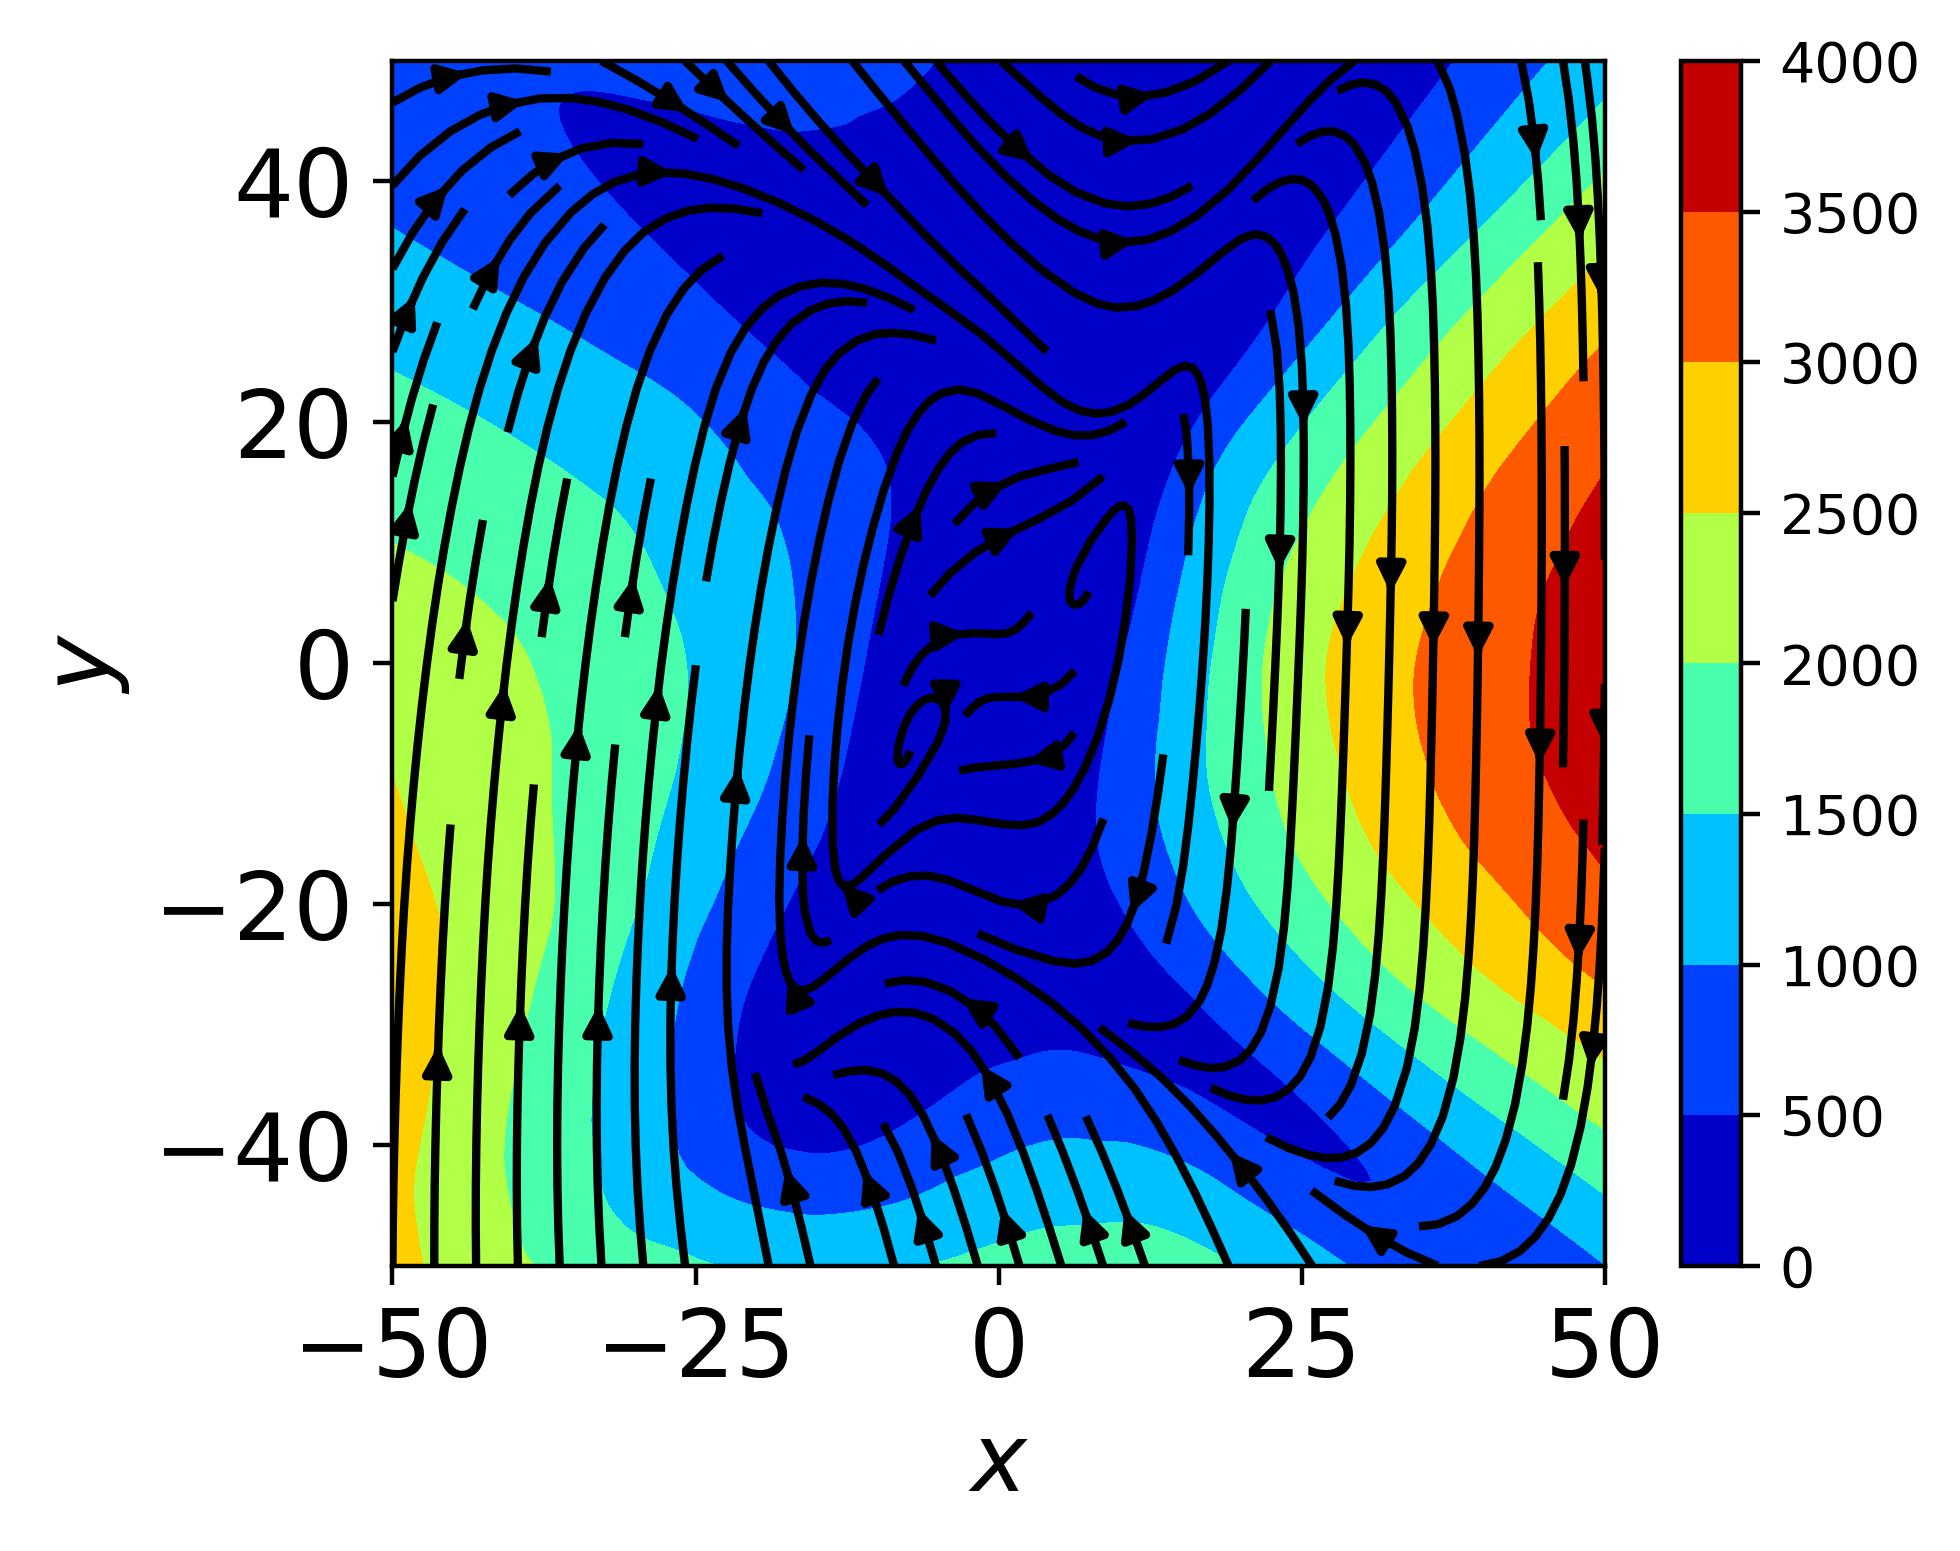
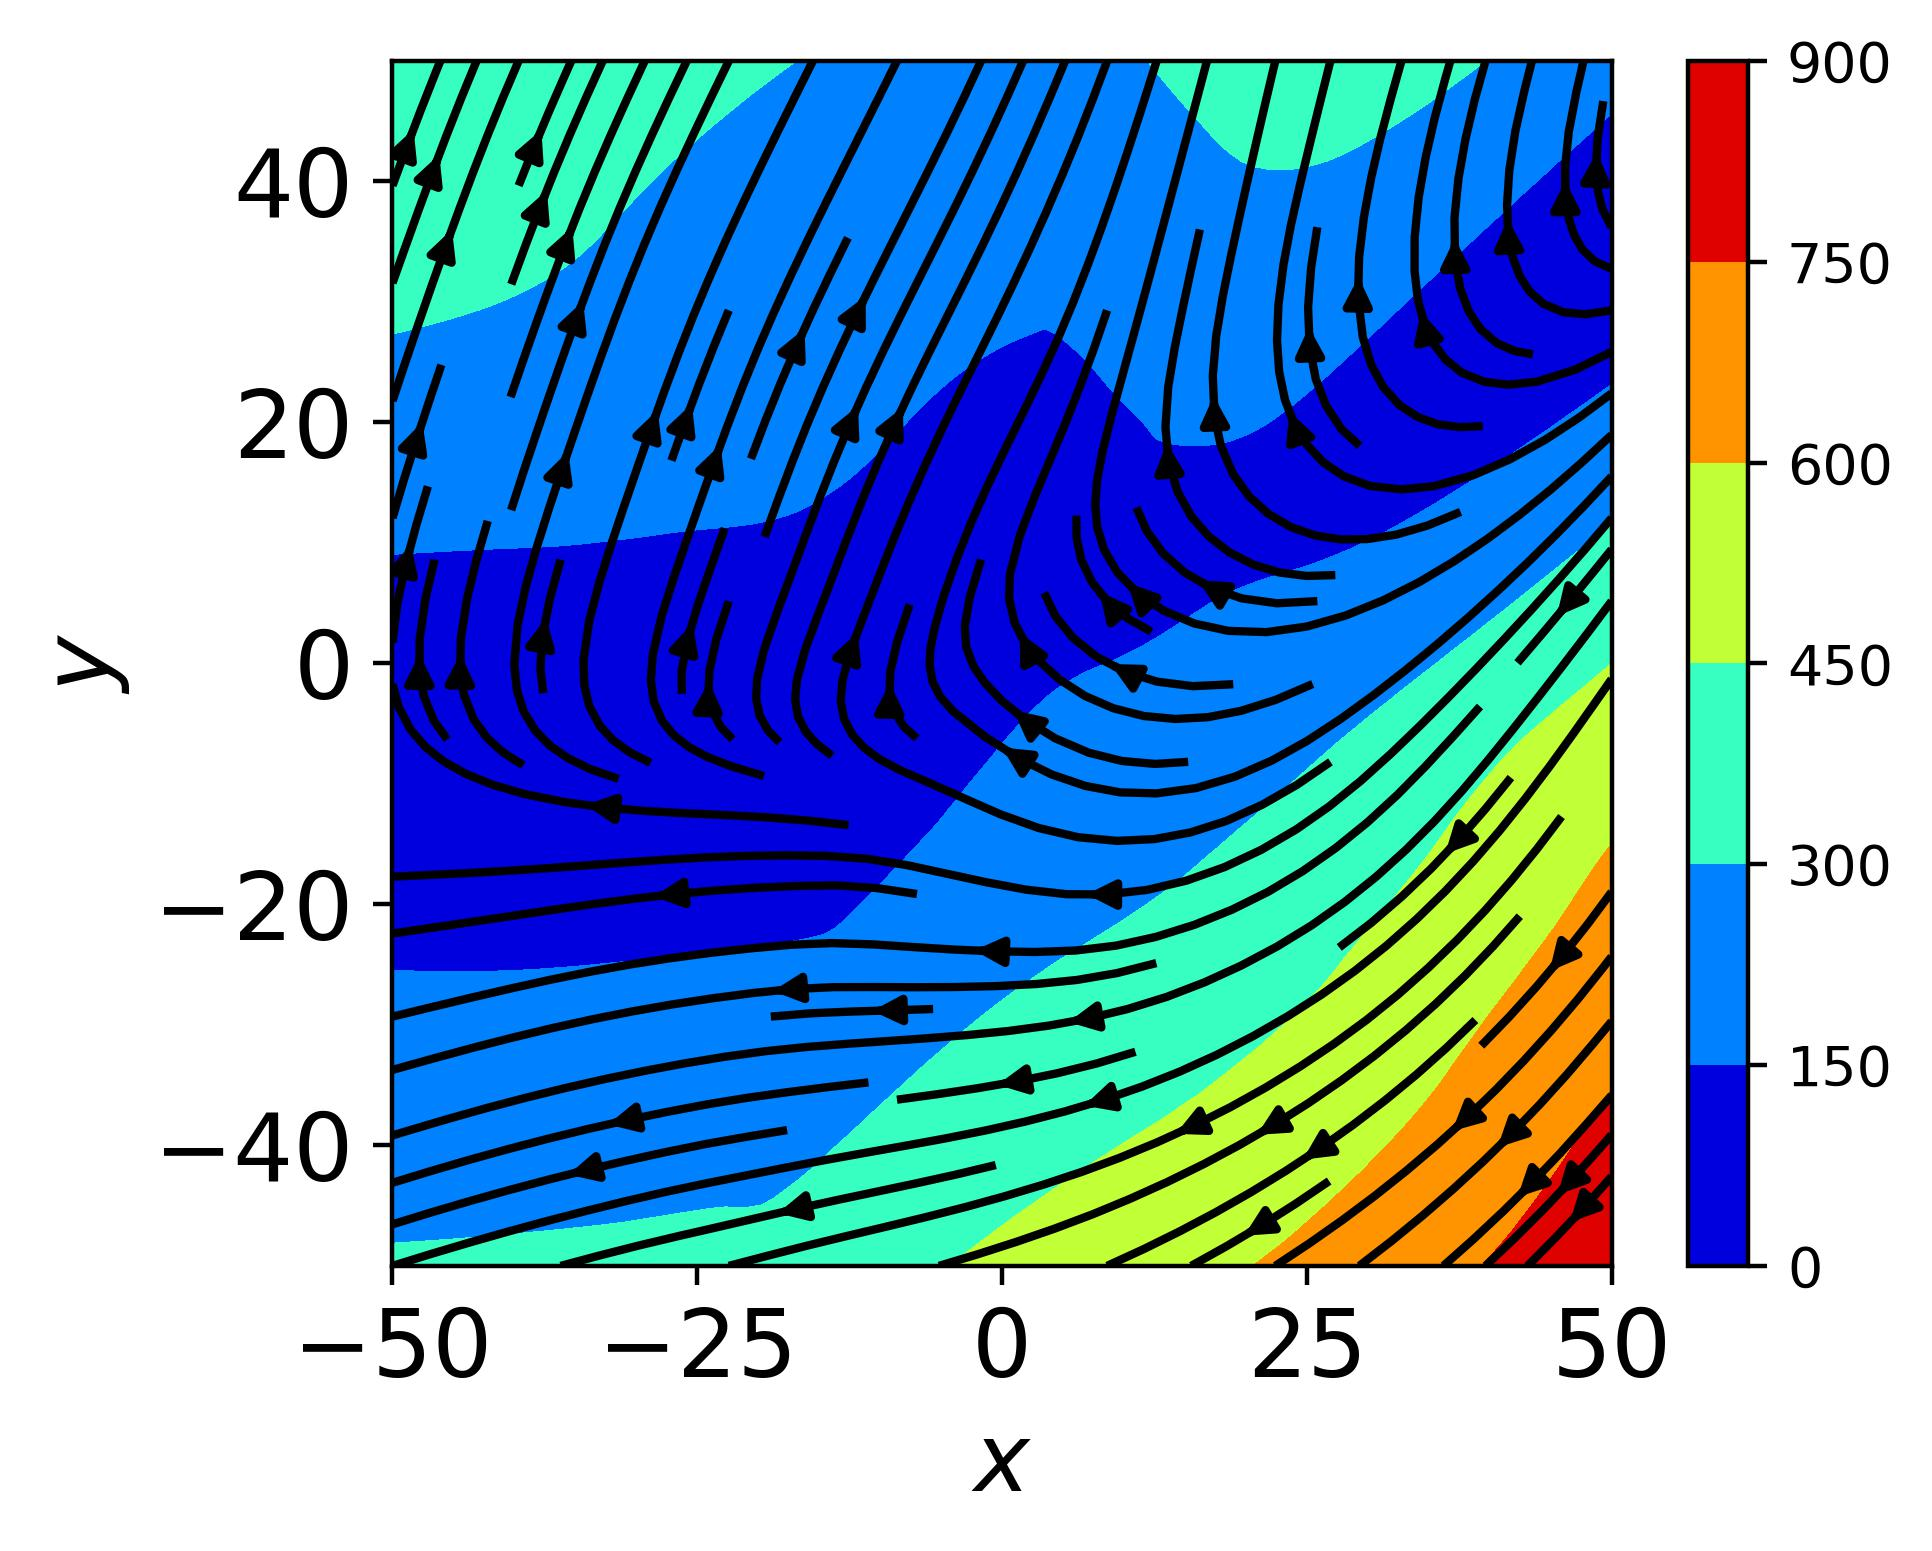
first successful vector field with CNN

diff --git a/test/test_lorenz.py b/test/test_lorenz.py
@@ -47,27 +47,59 @@ def rossler(t, X):
     dz = b + z * (x - c)
     return torch.stack([dx, dy, dz])
 
-class ODE_Lorenz(nn.Module):
+class ODE_MLP(nn.Module):
     '''Define Neural Network that approximates differential equation system of Chaotic Lorenz'''
-    # Neural Propogator?
 
-    def __init__(self, y_dim=3, n_hidden=32*9):
-        super(ODE_Lorenz, self).__init__()
+    def __init__(self, y_dim=3, n_hidden=512):
+        super(ODE_MLP, self).__init__()
         self.net = nn.Sequential(
-            nn.Linear(3, 512),
+            nn.Linear(3, n_hidden),
             nn.GELU(),
-            # nn.Linear(512, 512),
-            # nn.GELU(),
-            # nn.Linear(512, 1024),
-            # nn.GELU(),
-            # nn.Linear(1024, 1024),
-            # nn.GELU(),
-            nn.Linear(1024, 3)
+            nn.Linear(n_hidden, n_hidden),
+            nn.GELU(),
+            nn.Linear(n_hidden, 3)
         )
 
     def forward(self, t, y):
         res = self.net(y)
         return res
+
+class ODE_CNN(nn.Module):
+
+    def __init__(self, y_dim=3, n_hidden=512):
+        super(ODE_CNN, self).__init__()
+        self.conv1d = nn.Conv1d(3, 3, kernel_size=3, padding=1, bias=False)
+        self.conv2d = nn.Conv2d(1, 1, kernel_size=(5,5), padding=2, bias=False)
+        self.activation = nn.GELU()
+        self.net = nn.Sequential(
+            nn.Linear(3, n_hidden),
+            nn.GELU(),
+            nn.Linear(n_hidden, 3)
+        )
+
+    def forward(self, t, y):
+        if y.dim() == 1: # needed for vmap
+            y = y.reshape(1, -1)
+        
+        # y = self.net(y)
+        # encoded_y = self.conv1d(y.T)
+        # encoded_y = self.conv1d(encoded_y)
+        # res = self.net(encoded_y.T)
+
+        # encoded_y = self.net(y)
+        # y = self.conv1d(encoded_y.T)
+        # res = y.T
+
+        # y = self.net(y)
+        y = torch.unsqueeze(y.T, 0)
+        encoded_y = self.conv2d(y)
+        encoded_y = self.conv2d(encoded_y)
+        encoded_y = self.conv2d(encoded_y)
+        # res = self.net(encoded_y.squeeze().T)
+        res = encoded_y.squeeze().T
+        return res
+
+
 
 ##############
 ## Training ##
@@ -85,20 +117,29 @@ def create_data(dyn_info, n_train, n_test, n_trans):
     ##### create test dataset #####
     traj = traj[n_train:]
     X_test = traj[:n_test]
-    Y_test = traj[1:]
+    Y_test = traj[1:n_test+1]
     return [X, Y, X_test, Y_test]
+
+def update_lr(optimizer, epoch, total_e, origin_lr):
+    """ A decay factor of 0.1 raised to the power of epoch / total_epochs. Learning rate decreases gradually as the epoch number increases towards the total number of epochs. """
+    new_lr = origin_lr * (0.1 ** (epoch / float(total_e)))
+    for params in optimizer.param_groups:
+        params['lr'] = new_lr
+    return
 
 def train(dyn_sys_info, model, device, dataset, optim_name, criterion, epochs, lr, weight_decay, reg_param, loss_type):
 
     # Initialize
     n_store, k  = 100, 0
-    ep_num, loss_hist, test_loss_hist = torch.empty(n_store,dtype=int), torch.empty(n_store), torch.empty(n_store)
+    ep_num, loss_hist, test_loss_hist = torch.empty(n_store+1,dtype=int), torch.empty(n_store+1), torch.empty(n_store+1)
     optimizer = optim.AdamW(model.parameters(), lr=lr, weight_decay=weight_decay)
     X, Y, X_test, Y_test = dataset
     X, Y, X_test, Y_test = X.to(device), Y.to(device), X_test.to(device), Y_test.to(device)
     num_train = X.shape[0]
     dyn_sys, dim, time_step = dyn_sys_info
     t_eval_point = torch.linspace(0, time_step, 2).to(device)
+
+    torch.cuda.empty_cache()
     
     # Compute True Jacobian
     if loss_type == "Jacobian":
@@ -116,22 +157,26 @@ def train(dyn_sys_info, model, device, dataset, optim_name, criterion, epochs, l
         train_loss = criterion(y_pred, Y)  * (1/time_step/time_step)
 
         if loss_type == "Jacobian":
-            # Compute Jacobian
-            m = lambda y: model(0, y)
-            compute_batch_jac = torch.vmap(torch.func.jacrev(m))
-            cur_model_J = compute_batch_jac(X)
+            # # Compute Jacobian
+            jacrev = torch.func.jacrev(model, argnums=1)
+            compute_batch_jac = torch.vmap(jacrev, in_dims=(None, 0))
+            cur_model_J = compute_batch_jac(0, X).to(device)
             train_loss += reg_param*criterion(True_J, cur_model_J)
 
         train_loss.backward()
         optimizer.step()
+        update_lr(optimizer, i, epochs, args.lr)
 
         # Save Training and Test History
-        if i % (epochs//n_store) == 0:
+        if i % (epochs//n_store) == 0 or (i == epochs-1):
+            JAC_plot_path = '../plot/Vector_field/train_cnn/JAC_'+str(i)+'.jpg'
+            plot_vector_field(model, path=JAC_plot_path, idx=1, t=0., N=100, device='cuda')
+
             with torch.no_grad():
                 model.eval()
                 y_pred_test = torchdiffeq.odeint(model, X_test, t_eval_point, rtol=1e-9, atol=1e-9, method="rk4")[-1]
                 y_pred_test = y_pred_test.to(device)
-                # save predicted node feature for analysis              
+                # save predicted node feature for analysis            
                 test_loss = criterion(y_pred_test, Y_test) * (1/time_step/time_step)
                 print("Epoch: ", i, " Train: {:.5f}".format(train_loss.item()), " Test: {:.5f}".format(test_loss.item()))
 
@@ -139,7 +184,7 @@ def train(dyn_sys_info, model, device, dataset, optim_name, criterion, epochs, l
                 k = k + 1
 
     if loss_type == "Jacobian":
-        for i in [0, -3, -2, -1]:
+        for i in [0, 1, -2, -1]:
             print("Point:", X[i].detach().cpu().numpy(), "\n", "True:", "\n", True_J[i].detach().cpu().numpy(), "\n", "JAC:", "\n", cur_model_J[i].detach().cpu().numpy())
 
     return ep_num, loss_hist, test_loss_hist
@@ -233,8 +278,7 @@ def plot_vector_field(model, path, idx, t, N, device='cuda'):
     x = torch.linspace(-50, 50, N)
     y = torch.linspace(-50, 50, N)
     X, Y = torch.meshgrid(x,y)
-    U, V = torch.zeros(N,N), torch.zeros(N,N)
-    print("shape", X.shape, Y.shape)
+    U, V = np.zeros((N,N)), np.zeros((N,N))
 
     for i in range(N):
         for j in range(N):
@@ -242,19 +286,16 @@ def plot_vector_field(model, path, idx, t, N, device='cuda'):
                 phi = torch.stack([torch.tensor(X[i,j]), torch.tensor(Y[i,j]), torch.tensor(20.)]).to('cuda')
             else:
                 phi = torch.stack([X[i,j].clone().detach(), torch.tensor(0), Y[i,j].clone().detach()]).to('cuda')
-            O = model(0., phi)
-            U[i,j], V[i,j] = O[0], O[idx]
-
-    print(X.requires_grad, Y.requires_grad, U.requires_grad, V.requires_grad)
+            O = model(0., phi).detach().cpu().numpy()
+            if O.ndim == 1:
+                U[i,j], V[i,j] = O[0], O[idx]
+            else:
+                U[i,j], V[i,j] = O[0, 0], O[0, idx]
 
     fig = figure(figsize=(5,4))
     ax = fig.add_subplot(111)
-    if U.requires_grad:
-        contourf = ax.contourf(X, Y, torch.sqrt(U**2 + V**2).detach().numpy(), cmap='jet')
-        ax.streamplot(X.T.numpy(),Y.T.numpy(),U.T.detach().numpy(),V.T.detach().numpy(), color='k')
-    else:
-        contourf = ax.contourf(X, Y, torch.sqrt(U**2 + V**2), cmap='jet')
-        ax.streamplot(X.T.numpy(),Y.T.numpy(),U.T.numpy(),V.T.numpy(), color='k')
+    contourf = ax.contourf(X, Y, np.sqrt(U**2 + V**2), cmap='jet')
+    ax.streamplot(X.T.numpy(),Y.T.numpy(),U.T,V.T, color='k')
 
     ax.set_xlim([x.min(),x.max()])
     ax.set_ylim([y.min(),y.max()])
@@ -268,6 +309,7 @@ def plot_vector_field(model, path, idx, t, N, device='cuda'):
     fig.colorbar(contourf)
     tight_layout()
     savefig(path, format='jpg', dpi=400, bbox_inches ='tight', pad_inches = 0.1)
+    close()
     return
 
 
@@ -280,51 +322,31 @@ def lyap_exps(dyn_sys_info, true_traj, iters, method, model):
     # QR Method where U = tangent vector, V = regular system
     U = torch.eye(dim)
     lyap_exp = [] #empty list to store the lengths of the orthogonal axes
-
     real_time = iters * time_step
     t_eval_point = torch.linspace(0, time_step, 2)
+    device = 'cuda' if torch.cuda.is_available() else 'cpu'
+    t_eval_point = t_eval_point.to(device)
+    model.eval()
 
-    if method == "NODE":
-        device = 'cuda' if torch.cuda.is_available() else 'cpu'
-        t_eval_point = t_eval_point.to(device)
-        model.eval()
+    for i in range(iters):
+        if i % 1000 == 0:
+            print(i)
 
-        for i in range(iters):
-            if i % 1000 == 0:
-                print(i)
-
-            #update x0
-            x0 = true_traj[i].to(device)
+        #update x0
+        x0 = true_traj[i].to(device)
+        if method == "NODE":
             cur_J = F.jacobian(lambda x: torchdiffeq.odeint(model, x, t_eval_point, method="rk4"), x0)[1]
+        else:
+            cur_J = F.jacobian(lambda x: torchdiffeq.odeint(dyn_sys_func, x, t_eval_point, method="rk4"), x0)[1]
 
-            J = torch.matmul(cur_J.to("cpu"), U.to("cpu"))
+        J = torch.matmul(cur_J, U.to(device))
+        Q, R = torch.linalg.qr(J)
+        lyap_exp.append(torch.log(abs(R.diagonal())).detach().cpu().numpy())
+        U = Q #new axes after iteration
 
-            # QR Decomposition for J
-            Q, R = torch.linalg.qr(J)
+    LE = [sum([lyap_exp[i][j] for i in range(iters)]) / (real_time) for j in range(dim)]
 
-            lyap_exp.append(torch.log(abs(R.diagonal())))
-            U = Q #new axes after iteration
-
-        LE = [sum([lyap_exp[i][j] for i in range(iters)]) / (real_time) for j in range(dim)]
-
-    else:
-        for i in range(iters):
-
-            #update x0
-            x0 = true_traj[i]
-            cur_J = F.jacobian(lambda x: torchdiffeq.odeint(dyn_sys_func, x, t_eval_point, method=method), x0)[1]
-         
-            J = torch.matmul(cur_J, U)
-
-            # QR Decomposition for J
-            Q, R = torch.linalg.qr(J)
-
-            lyap_exp.append(torch.log(abs(R.diagonal())))
-            U = Q #new axes after iteration
-
-        LE = [sum([lyap_exp[i][j] for i in range(iters)]) / (real_time) for j in range(dim)]
-
-    return torch.tensor(LE)
+    return LE
 
 
 if __name__ == '__main__':
@@ -337,14 +359,16 @@ if __name__ == '__main__':
 
     parser = argparse.ArgumentParser()
     parser.add_argument("--time_step", type=float, default=1e-2)
-    parser.add_argument("--lr", type=float, default=5e-4)
-    parser.add_argument("--weight_decay", type=float, default=1e-4)
+    parser.add_argument("--lr", type=float, default=1e-3)
+    parser.add_argument("--weight_decay", type=float, default=5e-4)
     parser.add_argument("--num_epoch", type=int, default=5000)
-    parser.add_argument("--num_train", type=int, default=10000)
-    parser.add_argument("--num_test", type=int, default=8000)
+    parser.add_argument("--num_train", type=int, default=8000)
+    parser.add_argument("--num_test", type=int, default=6000)
     parser.add_argument("--num_trans", type=int, default=0)
-    parser.add_argument("--loss_type", default="MSE", choices=["Jacobian", "MSE", "Auto_corr"])
-    parser.add_argument("--reg_param", type=float, default=1e-2)
+    parser.add_argument("--loss_type", default="MSE", choices=["Jacobian", "MSE"])
+    parser.add_argument("--model_type", default="MLP", choices=["MLP", "CNN", "GRU"])
+    parser.add_argument("--n_hidden", type=int, default=512)
+    parser.add_argument("--reg_param", type=float, default=500)
     parser.add_argument("--optim_name", default="AdamW", choices=["AdamW", "Adam", "RMSprop", "SGD"])
 
 
@@ -358,18 +382,22 @@ if __name__ == '__main__':
     dataset = create_data(dyn_sys_info, n_train=args.num_train, n_test=args.num_test, n_trans=args.num_trans)
 
     # Create model
-    m = ODE_Lorenz(y_dim=dim, n_hidden=dim).to(device)
+    if args.model_type == "MLP":
+        m = ODE_MLP(y_dim=dim, n_hidden=args.n_hidden).to(device)
+    elif args.model_type == "CNN":
+        m = ODE_CNN(y_dim=dim, n_hidden=args.n_hidden).to(device)
 
-    print("Training...") 
-    # Train the model, return node
+    print("Training...") # Train the model, return node
     epochs, loss_hist, test_loss_hist= train(dyn_sys_info, m, device, dataset, args.optim_name, criterion, args.num_epoch, args.lr, args.weight_decay, args.reg_param, args.loss_type)
 
     # plot things
     plot_loss(epochs, loss_hist, test_loss_hist) 
     plot_vf(m, dyn_sys_info)
     JAC_plot_path = '../plot/Vector_field/JAC.jpg'
+    True_plot_path = '../plot/Vector_field/True.jpg'
     plot_vector_field(m, path=JAC_plot_path, idx=1, t=0., N=100, device='cuda')
-    plot_attractor(m, dyn_sys_info, 20)
+    plot_vector_field(lorenz, path=True_plot_path, idx=1, t=0., N=100, device='cuda')
+    plot_attractor(m, dyn_sys_info, 50)
 
     # compute LE
     true_traj = torchdiffeq.odeint(lorenz, torch.randn(dim), torch.arange(0, 300, args.time_step), method='rk4', rtol=1e-8)
